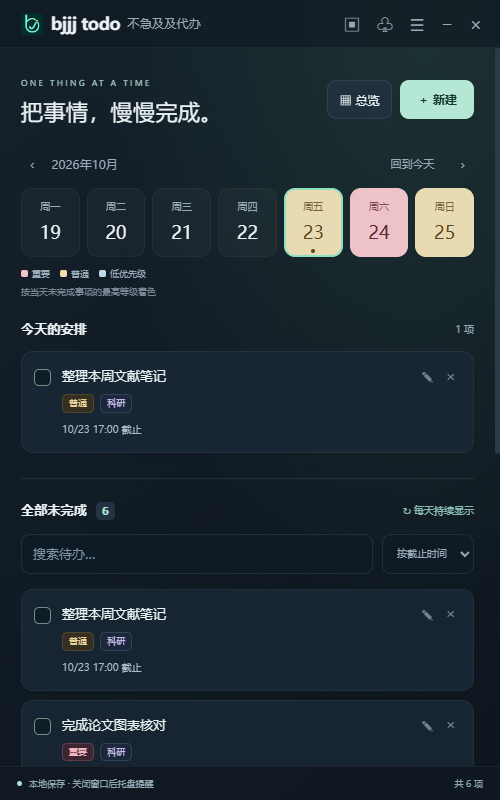
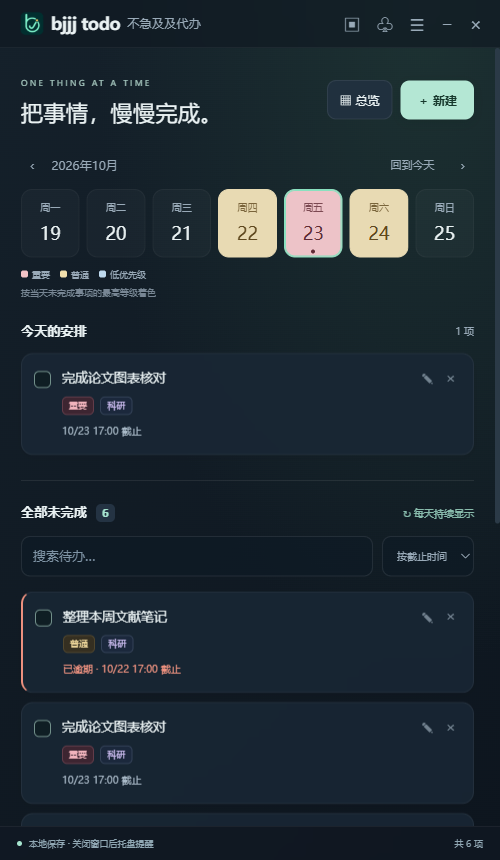
Expand project homepage with illustrated feature walkthrough

diff --git a/README.md b/README.md
@@ -1,102 +1,203 @@
-<p align="center"><img src="assets/icon.png" width="88" alt="bjjj todo"></p>
+<a href="https://github.com/bjjjzmzbjf/bjjj-todo/releases/latest"><img src="assets/cover.png" width="100%" alt="不急及及代办：把事情，慢慢完成。展示真实待办主窗口和桌面浮窗。"></a>
 
 <h1 align="center">不急及及代办 · bjjj todo</h1>
 
-<p align="center">把事情，慢慢完成。</p>
+<p align="center"><b>未完成的事，留在眼前。重要的节点，提前记住。</b></p>
+<p align="center">Windows x64 · 免安装 · 本地保存 · MIT 开源</p>
+<p align="center"><a href="https://github.com/bjjjzmzbjf/bjjj-todo/releases/latest"><b>↓ 下载 Windows 版</b></a>　·　<a href="#从记录到完成">功能与截图</a>　·　<a href="#三步开始使用">开始使用</a>　·　<a href="https://github.com/bjjjzmzbjf/bjjj-todo/issues">反馈与建议</a></p>
 
-一个注重日常使用的 Windows 桌面待办软件。未完成事项跨天保留，支持自定义提前提醒、月历总览和桌面浮窗。
+论文还有几张图要改，明天的会议需要准备，周末也有自己的安排。事情写下来了，却可能随着翻页、切换日期，又被忘在一边。
 
-**当前版本：1.0.0（首版） · Windows x64 · 本地保存 · MIT 开源**
+**bjjj todo 是一个把待办留在桌面上的 Windows 小工具。** 今天先做什么、接下来要做什么、哪些事还没完成，都有清楚的位置。你可以设置适合自己的提醒节奏，也可以打开浮窗，让手头的事在工作时始终可见。
 
-[下载 Windows 版](https://github.com/bjjjzmzbjf/bjjj-todo/releases/latest) · [反馈问题](https://github.com/bjjjzmzbjf/bjjj-todo/issues)
+不用每天把昨天的待办重新抄一遍。记下来，然后一件件完成。
 
-如果它让你的日常安排更轻松，欢迎在右上角点一个 **Star ⭐**，也欢迎分享给需要的朋友。
-
-## 下载使用
-
-进入 [软件下载页面](https://github.com/bjjjzmzbjf/bjjj-todo/releases/latest)，下载 Assets 下的 **bjjj.todo.exe**。
-
-1. 将程序放在固定目录，双击运行，无需安装。
-2. 点“＋ 新建”添加事项，设置重要性、类型、截止时间和提醒。
-3. 点“总览”查看整月安排，或点击标题栏的浮窗按钮，开启桌面浮窗。
-
-请下载 `.exe` 程序，而不是 GitHub 自动生成的 `Source code.zip`。Source code 压缩包为完整源码，需要安装开发环境后才能运行。
-
-程序已在 Windows 11 x64 环境验证。目前未提供 macOS、Linux 或 Windows ARM 专用版本。当前程序未进行数字签名；Releases 同时提供 SHA256 校验文件。
-
-## 功能
-
-- **未完成事项每天保留**：跨天后继续显示，逾期事项不会消失，勾选完成后可撤销。
-- **自定义提前提醒**：按分钟、小时或天设置多个提醒节点；0 表示到时提醒。
-- **三个重要性等级**：重要、普通、低优先级，以浅红、浅黄、浅蓝区分。
-- **五种事项类型**：科研、工作、学习、生活、其他，卡片直接显示标签。
-- **月历总览**：按月查看事项，显示农历、节气和节日；支持筛选、搜索、查看详情、新建和完成事项。
-- **桌面浮窗**：显示今日待办（含逾期）与最近三项，可拖动、调整大小、置顶和直接勾选。
-- **自定义背景**：选择本地图片、调整遮罩深浅，三个窗口同步使用。
-- **托盘与开机启动**：关闭主窗口后保留后台提醒；可按需开启登录 Windows 后启动。
-- **本地数据与备份**：不要求注册账号，支持 JSON 导入、导出和上一份数据自动备份。
-
-## 界面预览
-
-下方为示例事项，正式程序不会附带这些演示数据。
-
-### 日常待办与桌面浮窗
-
-<p><img src="assets/main.png" width="410" alt="主窗口"><img src="assets/widget.png" width="300" alt="桌面浮窗"></p>
-
-### 月历总览
-
-![月历总览](assets/overview.png)
-
-## 提醒如何工作
-
-添加截止时间后，在“提前提醒”中输入数值和单位，点击“添加”，再保存事项。
-
-关闭窗口后，程序仍在托盘运行并检查提醒；从托盘菜单选择“退出软件”才会完全退出。电脑关机、休眠或程序完全退出期间无法弹出通知，恢复运行后会补发错过的提醒。Windows 勿扰设置可能影响通知横幅，可在软件设置中测试通知。
-
-浮窗“今日待办”包括今日截止和逾期未完成事项；“最近三项”按截止时间排列，不重复显示今日区的事项，未设置时间的事项排在最后。
-
-## 数据在哪里
-
-数据保存在本机 `%APPDATA%\bjjj todo\`：
-
-| 文件 | 内容 |
+| 你想做的事 | bjjj todo 的方式 |
 | --- | --- |
-| `tasks.json` | 事项、提醒和设置 |
-| `tasks.json.bak` | 上一份已保存数据 |
+| 接着完成昨天没做完的事情 | “全部未完成”跨天持续保留，逾期也不会自动消失 |
+| 为重要节点留出准备时间 | 同一事项可设置多个提前提醒，支持分钟、小时、天 |
+| 工作时随手看一眼安排 | 桌面浮窗显示今日待办与最近三项，支持置顶和直接勾选 |
+| 看清这个月的节奏 | 月历总览集中展示事项，支持类型、等级和关键词筛选 |
+
+## 从记录，到完成
+
+以下均为软件实机截图，使用独立的示例事项；下载的程序不会附带这些数据。
+
+### 01　没做完的事，明天仍然看得见
+
+主窗口把**当天的安排**和**全部未完成**放在一起：前者帮助你安排今天，后者接住还没做完的事情。切换日期不会把未完成事项藏起来，过期事项也会继续保留，并标注逾期。
+
+完成一项，勾选一项；需要继续处理时，也能从完成记录中恢复。事项多了，可以搜索关键词，或按截止时间、创建时间排序。
+
+<p align="center"><img src="assets/main.png" width="460" alt="主窗口：今日安排、按重要性着色的日期，以及跨天持续显示的全部未完成事项。"></p>
+
+**让轻重缓急更直观。** 三个重要性等级分别使用浅红、浅黄、浅蓝；日期背景取当天未完成事项的最高等级。卡片同时显示类型标签，科研、工作、学习、生活和其他，共五类，保持简单。
+
+| 重要性 | 日期颜色 | 适合怎样的安排 |
+| --- | --- | --- |
+| 重要 | 🟥 浅红 | 论文提交、重要汇报等需要优先关注的节点 |
+| 普通 | 🟨 浅黄 | 会议准备、日常学习与工作安排 |
+| 低优先级 | 🟦 浅蓝 | 整理资料、休闲计划等可以从容推进的事情 |
+
+### 02　提醒时间，按你的准备节奏来
+
+有些事情需要提前一天准备，有些只要提前半小时想起来就够了。新建事项时，可以为同一个截止时间添加**多个提醒节点**，自由填写分钟、小时或天数。
+
+例如“提交论文修改稿”，可以同时设置：**提前 1 天 → 提前 2 小时 → 提前 30 分钟**。需要到点提示时，添加数值 `0` 即可。
+
+<table>
+  <tr>
+    <td width="50%" align="center"><img src="assets/reminders.png" width="400" alt="新建待办：设置科研类型、重要等级、截止时间，并添加提前一天、两小时、三十分钟的提醒。"></td>
+    <td width="50%" align="center"><img src="assets/date-picker.png" width="400" alt="中文日期时间面板：按月选择日期，并调整小时和分钟。"></td>
+  </tr>
+  <tr>
+    <td align="center"><sub>一个事项，可以有多个提前提醒</sub></td>
+    <td align="center"><sub>中文日期面板，也能快捷选今天、明天</sub></td>
+  </tr>
+</table>
+
+关闭主窗口后，软件仍会在托盘运行并检查提醒。电脑关机、休眠或程序完全退出期间无法弹出通知，恢复运行后会补发错过的提醒；Windows 勿扰设置可能影响通知横幅。
+
+### 03　把一个月的安排，放到一张日历里
+
+点击“总览”，就能从一条条待办切换到整月安排。哪些日期有事项、哪些节点更重要，可以一起查看；农历、节气和节日标签也会显示在月历中。
+
+![月历总览：按月查看截止事项，显示农历、节气和节日，并支持类型、重要性与关键词筛选。](assets/overview.png)
+
+- **按你关心的内容查看**：筛选科研、工作等类型，筛选重要性，或搜索关键词。
+- **从日期直接处理事项**：点击日期展开当天安排，查看详情、勾选完成，或新建该日事项。
+- **和其他窗口保持同步**：在主窗口、总览或浮窗中编辑和完成，其他窗口会同步更新。
+- **没排日期的想法也有位置**：在“未设置日期”中查看，不必为了记一件事先确定截止时间。
+
+同一天事项较多时，可以展开完整列表；勾选“显示已完成”还能回看完成记录。日历中的节日和节气是日期标签，不表示法定放假或调休安排。
+
+### 04　让接下来要做的事，留在桌面一角
+
+写文章、读文献、开会时，打开一个独立浮窗，把安排放在视线范围内。浮窗可以拖动、调整大小、独立置顶，也能直接勾选完成。
+
+<table>
+  <tr>
+    <td width="46%" align="center"><img src="assets/widget.png" width="320" alt="桌面浮窗：上方是今日及逾期待办，下方是最近三项，事项可以直接勾选完成。"></td>
+    <td width="54%">
+      <p><b>今日待办</b></p>
+      <p>显示今天截止的事项，也保留之前逾期未完成的事项。</p>
+      <br>
+      <p><b>最近三项</b></p>
+      <p>按截止时间展示接下来的三项，不重复显示今日区已有的事项；未设时间的事项排在最后。</p>
+      <br>
+      <p><b>随手完成，窗口同步</b></p>
+      <p>在浮窗中勾选后，主窗口和月历会一起更新。重启后恢复浮窗的开关与位置。</p>
+    </td>
+  </tr>
+</table>
+
+### 05　换一张背景，让桌面更像自己的空间
+
+在设置中选择本地图片，就能更换软件背景，并调整遮罩深浅。主窗口、月历和浮窗同步使用同一张背景，也可以随时恢复默认外观。
+
+<p align="center"><img src="assets/background.png" width="460" alt="自定义背景示例：山景图片与待办界面融合，事项和文字保持可读。"></p>
+<p align="center"><sub>示例山景背景 · 可替换为自己的图片</sub></p>
+
+支持 PNG、JPEG、WebP，单张图片最大 20 MB。背景会复制到本机数据目录。
+
+### 06　事项存在本机，备份也能自己掌握
+
+日常使用不需要注册账号，事项和设置保存在本机文件中。设置里可以导出 JSON 备份，也可以导入已有备份；软件会自动保留上一份保存的数据。
+
+默认位置：`%APPDATA%\bjjj todo\`
+
+| 文件 | 保存内容 |
+| --- | --- |
+| `tasks.json` | 待办事项、提醒节点与软件设置 |
+| `tasks.json.bak` | 上一份保存的数据 |
 | `background.jpg` | 选择的背景图片 |
 
-JSON 导入会追加事项，重复导入可能产生重复记录；JSON 备份不包含背景图片。更新软件前可先导出备份。
+JSON 导入会**追加**事项，重复导入可能产生重复记录；JSON 备份不包含背景图片。更新软件前，建议先导出一份备份。
+
+## 这些场景，可以这样用
+
+| 场景 | 一个具体用法 |
+| --- | --- |
+| 科研与论文 | 把修改稿、图表核对、组会准备归为“科研”，重要提交节点设置多次提前提醒 |
+| 工作与协作 | 会议和交付节点放进月历，桌面浮窗保留今天要做的事情 |
+| 学习与课程 | 记录阅读任务、作业截止和报告提交，按日期逐项推进 |
+| 生活与个人安排 | 购物、运动、出行准备和临时想法也能放进来，暂时没有日期的事先记下 |
+
+## 三步开始使用
+
+**当前版本：v1.0.0，首个公开发布版本。** 已在 Windows 11 x64 环境验证。
+
+1. **下载程序**：打开 [Releases 下载页](https://github.com/bjjjzmzbjf/bjjj-todo/releases/latest)，下载 Assets 下的 **`bjjj.todo.exe`**。这是免安装单文件程序；GitHub 自动生成的 `Source code` 压缩包是源码。
+2. **放好再运行**：把程序放在固定目录，双击打开。首次运行会自动创建“不急及及代办”桌面快捷方式；也可以在设置中补建。
+3. **记下第一件事**：点击“＋ 新建”，填写事项，选择类型与重要性；需要提醒时，设置截止时间，添加提醒节点，再保存。
+
+之后可以按需要开启桌面浮窗、窗口置顶或开机启动，也可以换一张自己的背景图。
+
+当前程序尚无数字签名；下载页同时提供 `SHA256SUMS.txt` 校验文件。目前未提供 macOS、Linux 或 Windows ARM 专用版本。
 
 ## 常见问题
 
-**关闭窗口后怎么找回来？** 点击右下角托盘图标，或使用托盘菜单打开主窗口。
+<details>
+<summary><b>关闭窗口后，还会提醒吗？怎样彻底退出？</b></summary>
 
-**为何程序没有立即退出？** 关闭窗口默认隐藏到托盘，这是后台提醒所需的行为。彻底退出请使用托盘菜单。
+会。关闭主窗口默认隐藏到 Windows 托盘，程序继续运行。需要彻底退出时，右键托盘图标，选择“退出软件”；也可以在设置中退出。彻底退出期间不会弹出通知。
 
-**月历上的节日是否表示放假？** 不是。节日和节气仅为日历标签，不表示法定假期或调休安排。
+</details>
 
-**如何反馈问题？** 请在 Issues 中描述 Windows 版本、软件版本、复现步骤及预期结果。提交截图或日志前，请先移除个人事项、账号信息和背景图片。
+<details>
+<summary><b>桌面快捷方式没了，或移动程序后打不开，怎么办？</b></summary>
 
-## 许可与组件
+从程序的新位置打开软件，在设置中点击“创建桌面快捷方式”即可补建。请将免安装程序放在固定目录；只删除快捷方式不会删除待办数据。
 
-本项目采用 [MIT 许可](LICENSE)，欢迎使用、修改和分发，请保留版权及许可声明。
+</details>
 
-日期面板使用 Air Datepicker，农历标签使用 lunar-javascript；Electron / Chromium 运行时的许可随程序分发。详见 [第三方许可](THIRD-PARTY-NOTICES.txt)。
+<details>
+<summary><b>为什么没有收到系统通知？</b></summary>
 
-## 本地开发
+请确认事项已保存截止时间和提醒节点，软件没有完全退出，且 Windows 没有屏蔽通知。可以在设置中点击“测试系统通知”。电脑关机、休眠或程序退出期间无法实时提示，恢复运行后会补发错过的提醒。
+
+</details>
+
+<details>
+<summary><b>支持云同步、多设备同步或手机端吗？</b></summary>
+
+当前版本以 Windows 本地使用为主，暂不提供这些功能。可以通过 JSON 导出、导入手动迁移事项，背景图片需要另行备份。
+
+</details>
+
+## 开源与参与
+
+这是 bjjj todo 的第一个公开版本。如果它让你的日常安排更轻松，欢迎在右上角点一个 **Star ⭐**，也欢迎分享给需要的朋友，让更多人发现它。
+
+你也可以通过 [Issues](https://github.com/bjjjzmzbjf/bjjj-todo/issues) 反馈问题和提出功能建议，或提交 Pull Request。反馈时请写明软件版本、Windows 版本和复现步骤；截图中请先隐藏个人事项。参与方式见 [贡献说明](CONTRIBUTING.md)。
+
+<details>
+<summary><b>本地开发与检查</b></summary>
 
 使用 Node.js 24，在 Windows 中运行：
 
 ```sh
+git clone https://github.com/bjjjzmzbjf/bjjj-todo.git
+cd bjjj-todo
 npm ci
 npm start
-npm test
-npm run build
 ```
 
-打包输出位于 `release/`。窗口协同检查：先执行 `npx electron-builder --win --x64 --dir`，再运行 `node overview-smoke.cjs` 和 `node names-smoke.cjs`。生成校验文件：`node scripts/release-checksum.cjs`。
+运行 `npm test` 执行逻辑检查，`npm run build` 生成 Windows 免安装程序，输出位于 `release/`。
 
-更多使用细节见 [使用指南](USAGE.md)。
+需要检查打包后的窗口协同与快捷方式时：
 
-桌面快捷方式：打包版首次运行时自动创建“不急及及代办”快捷方式；可在设置中点击“创建桌面快捷方式”补建。请将免安装程序放在固定目录；移动文件后请重新创建快捷方式。
+```sh
+npx electron-builder --win --x64 --dir
+node overview-smoke.cjs
+node names-smoke.cjs
+node shortcut-smoke.cjs
+```
+
+生成下载校验文件：`node scripts/release-checksum.cjs`。更多操作细节见 [使用指南](USAGE.md)。
+
+</details>
+
+本项目采用 [MIT 许可](LICENSE)，允许使用、修改和分发，请保留版权及许可声明。日期面板使用 [Air Datepicker](https://github.com/t1m0n/air-datepicker)，农历标签使用 [lunar-javascript](https://github.com/6tail/lunar-javascript)；Electron / Chromium 运行时的许可随程序分发。详见 [第三方许可](THIRD-PARTY-NOTICES.txt)。
+
+<p align="center"><b>把事情，慢慢完成。</b><br><sub>不急及及代办 · bjjj todo</sub></p>
